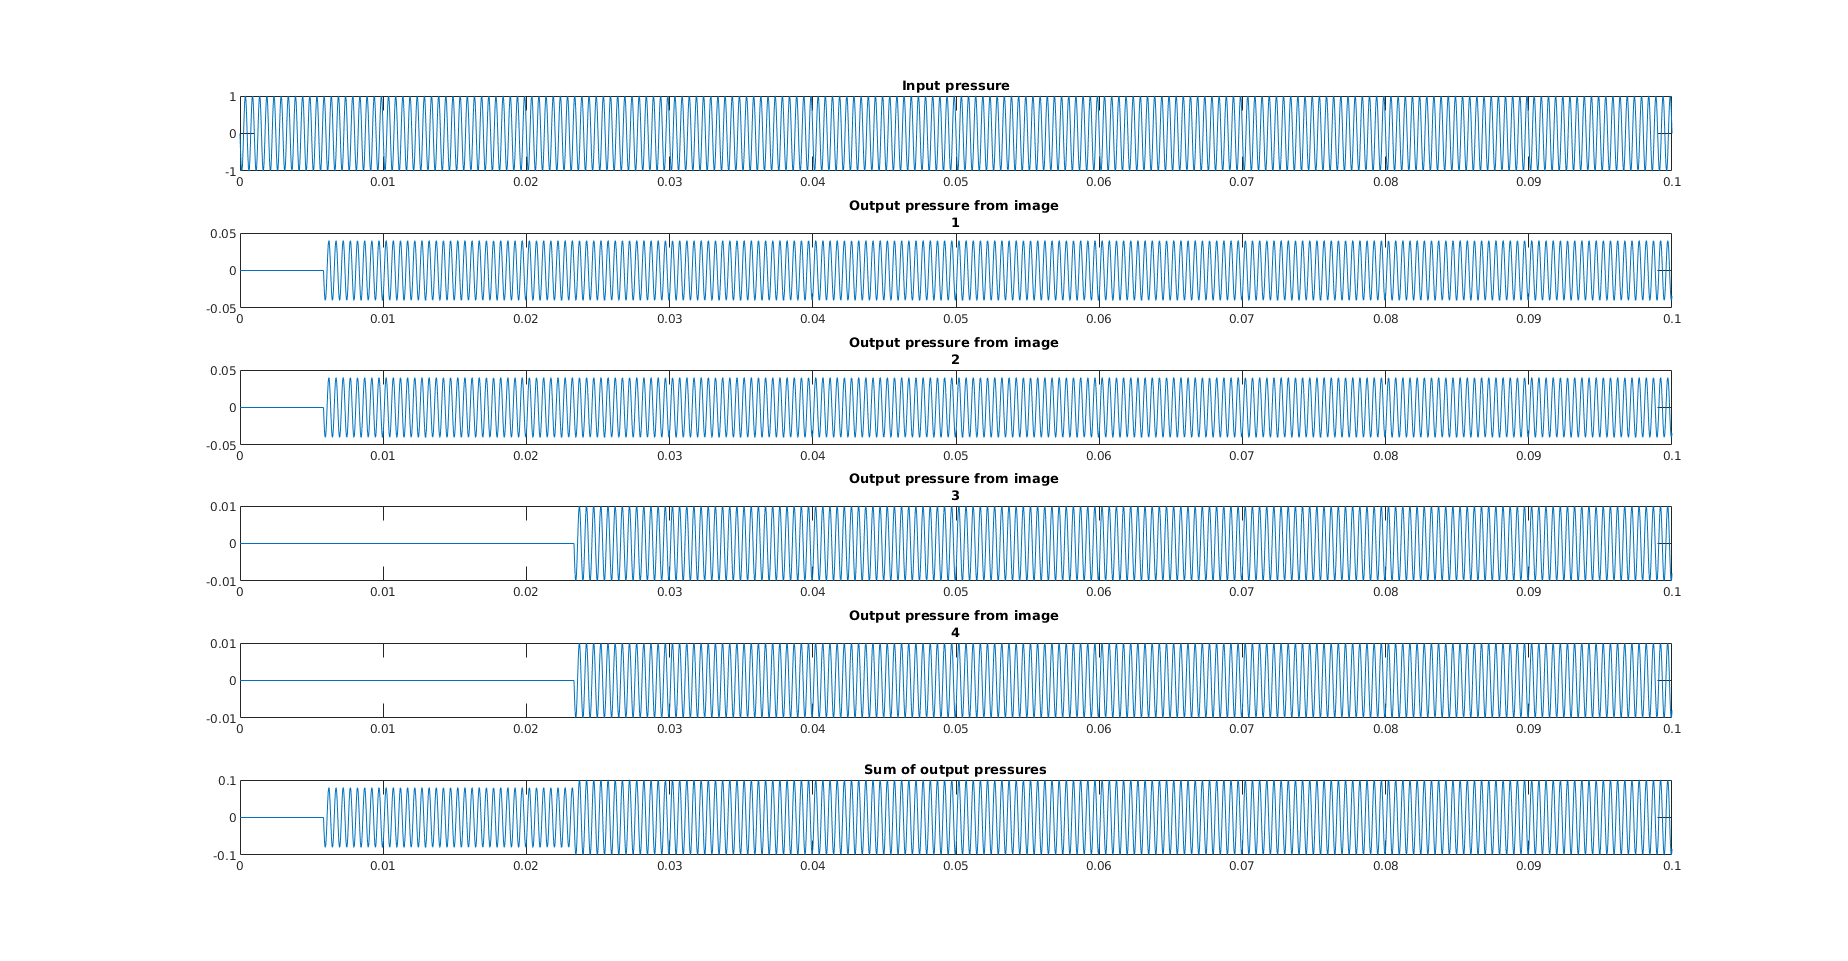
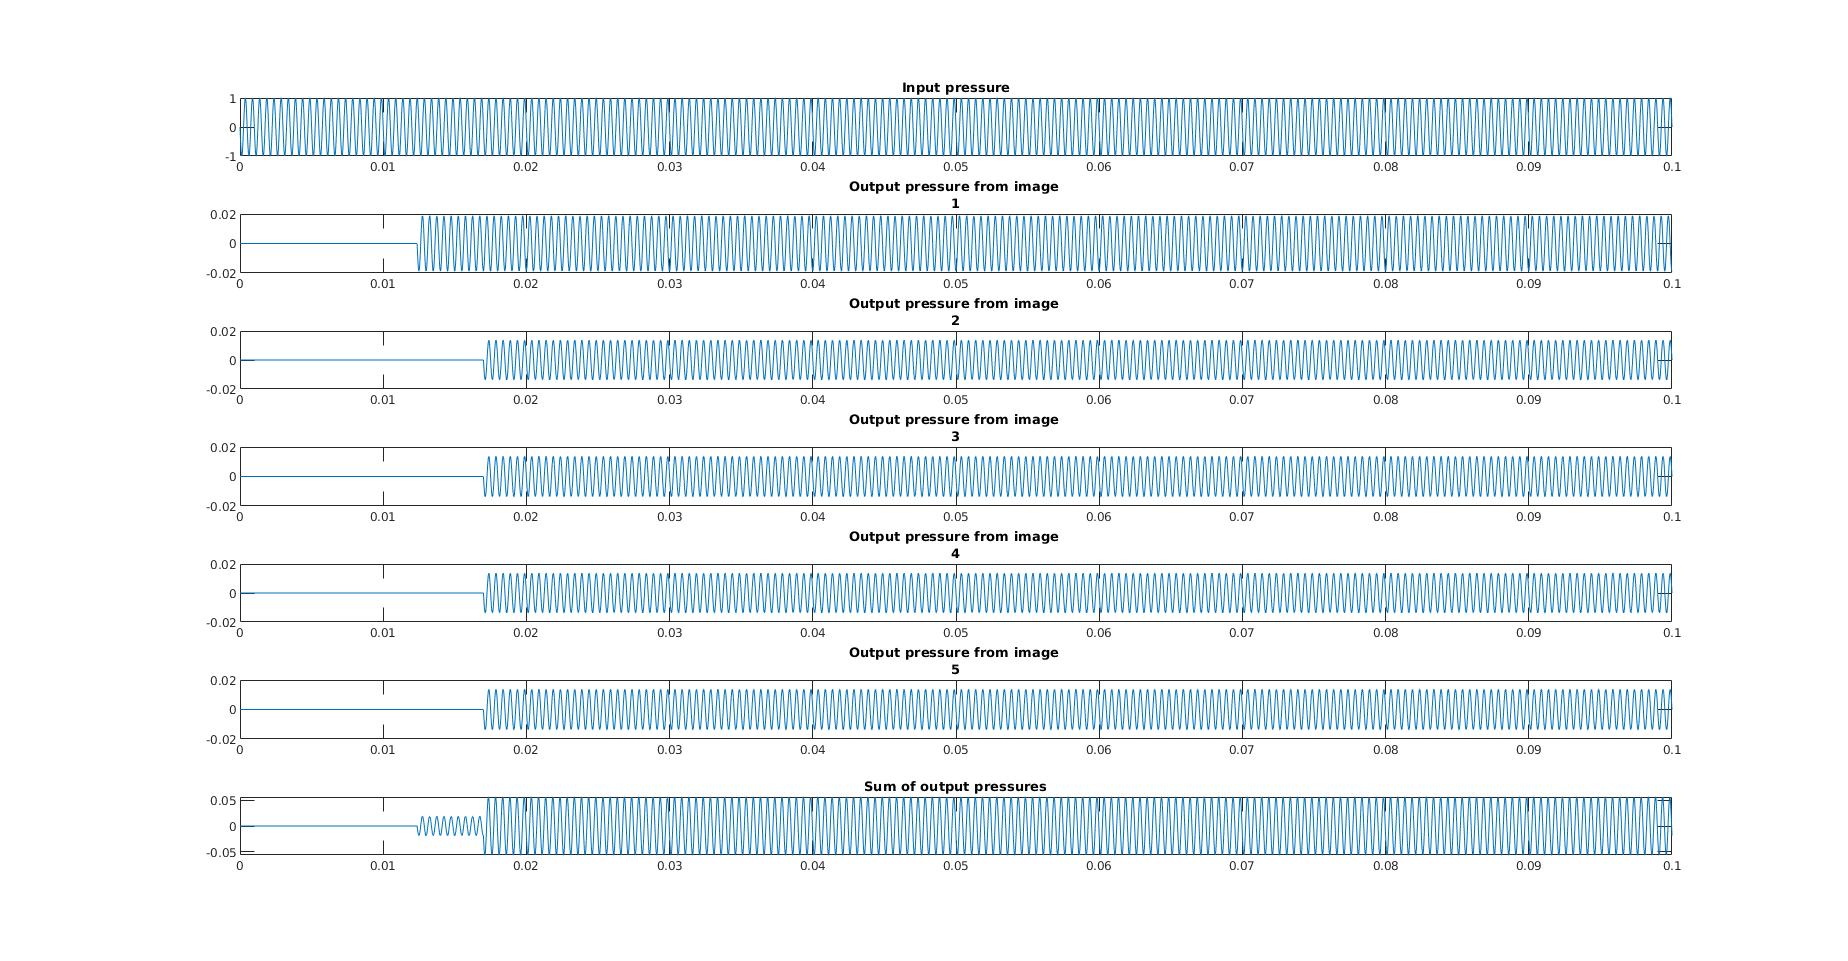
Fix image source method and implement in function image_source_pressure_wave

diff --git a/Matlab/Image_Source_Method/image_source_pressure_wave.m b/Matlab/Image_Source_Method/image_source_pressure_wave.m
@@ -1,0 +1,63 @@
+%% AUTHOR    : Leonard Berresheim 
+%% $DATE     : 31-Oct-2021 09:55:18 $ 
+% IMAGE_SOURCE_PRESSURE_WAVE.M 
+%   [TOT_OUTPUT_PRESSURE] = IMAGE_SOURCE_PRESSURE_WAVE(S,R,Lx,Ly,Lz,T,C,F) 
+%   Eingabe 
+%       S      (? x ?)  
+%       R      (? x ?)  
+%       Lx     (? x ?)  
+%       Ly     (? x ?)  
+%       Lz     (? x ?)  
+%       t      (? x ?)  
+%       c      (? x ?)  
+%       f      (? x ?)  
+%   Ausgabe 
+%       tot_output_pressure      (? x ?)  
+% 
+function [tot_output_pressure] = image_source_pressure_wave(S,R,Lx,Ly,Lz,t,c,f) 
+    % Deklaration of points forming the walls
+    A = [0 0 0; 0 0 0; Lx 0 0; 0 Ly 0;];%[0 0 0; 0 0 0; 0 0 0; Lx 0 0];%; 0 Ly 0; 0 0 Lz];
+    B = [0 1 0; 0 0 1; Lx 1 0; 1 Ly 0;];%[0 1 0; 0 1 0; 0 0 1; Lx 1 0];%; 1 Ly 0; 1 0 Lz];
+    C = [0 0 1; 1 0 0; Lx 0 1; 0 Ly 1];%[1 0 0; 0 0 1; 1 0 0; Lx 0 1];%; 0 Ly 1; 0 1 Lz];
+    % Conversion of points into the plane quation coefficients of the walls
+    n_walls = size(A,1);
+    wall = zeros(n_walls,4);
+    for i=1:n_walls
+       wall(i,:) = plane_equation(A(i,:),B(i,:),C(i,:)); 
+    end
+
+    % Computation of the image points of P in relation to the walls/planes
+    M = point_mirror(wall,S);
+    
+    % Display planes for geogebra---------------------
+    for i=1:n_walls
+       disp(['Plane((' num2str(A(i,1)) ',' num2str(A(i,2)) ',' num2str(A(i,3)) '),(' num2str(B(i,1)) ',' num2str(B(i,2)) ',' num2str(B(i,3)) '),(' num2str(C(i,1)) ',' num2str(C(i,2)) ',' num2str(C(i,3)) '))']);
+    end
+    disp(['(' num2str(S(1)) ',' num2str(S(2)) ',' num2str(S(3)) ')']);
+    for i=1:n_walls
+       disp(['(' num2str(M(i,1)) ',' num2str(M(i,2)) ',' num2str(M(i,3)) ')']);
+    end
+    %-------------------------------------------------
+    % Computation of the pressure wave at R for Source and all images
+    S_and_M = [S;M];
+    [input_pressure, output_pressure] = pressure_wave(S_and_M, R, f, t, c);
+    
+    % Plot output pressures
+    n_pressures = size(S_and_M,1);
+    subplot(n_pressures+2,1,1);
+    plot(t,input_pressure)
+    title("Input pressure");
+    for i=1:n_pressures
+       subplot(n_pressures+2,1,i+1);
+       plot(t, output_pressure(i,:));
+       title(["Output pressure from image " i]);
+    end
+
+    tot_output_pressure = sum(output_pressure,1);
+    subplot(n_pressures+2,1,n_pressures+2);
+    plot(t, tot_output_pressure);
+    title("Sum of output pressures");
+
+
+
+    end 

diff --git a/Matlab/Image_Source_Method/main.m b/Matlab/Image_Source_Method/main.m
@@ -4,54 +4,11 @@ clearvars;
 Lx = 5;
 Ly = 5;
 Lz = 5;
-A = [0 0 0; 0 0 0; Lx 0 0; 0 Ly 0;];%[0 0 0; 0 0 0; 0 0 0; Lx 0 0];%; 0 Ly 0; 0 0 Lz];
-B = [0 1 0; 0 0 1; Lx 1 0; 1 Ly 0;];%[0 1 0; 0 1 0; 0 0 1; Lx 1 0];%; 1 Ly 0; 1 0 Lz];
-C = [0 0 1; 1 0 0; Lx 0 1; 0 Ly 1];%[1 0 0; 0 0 1; 1 0 0; Lx 0 1];%; 0 Ly 1; 0 1 Lz];
-wall = zeros(size(A,1),4);
-for i=1:size(A,1);
-   wall(i,:) = plane_equation(A(i,:),B(i,:),C(i,:)); 
-end
-
-P = [1,1,1];
-M = point_mirror(wall,P);
-
-for i=1:size(A,1)
-   disp(['Plane((' num2str(A(i,1)) ',' num2str(A(i,2)) ',' num2str(A(i,3)) '),(' num2str(B(i,1)) ',' num2str(B(i,2)) ',' num2str(B(i,3)) '),(' num2str(C(i,1)) ',' num2str(C(i,2)) ',' num2str(C(i,3)) '))']);
-end
-disp(['(' num2str(P(1)) ',' num2str(P(2)) ',' num2str(P(3)) ')']);
-for i=1:size(A,1)
-   disp(['(' num2str(M(i,1)) ',' num2str(M(i,2)) ',' num2str(M(i,3)) ')']);
-end
-
 t = 0:0.00001:0.1;
 c = 343;
 f = 2000;
-[input_pressure, output_pressure] = pressure_wave(P, M, f, t, c);
 
-subplot(size(A,1)+2,1,1);
-plot(t,input_pressure)
-title("Input pressure");
-for i=1:size(A,1)
-   subplot(size(A,1)+2,1,i+1);
-   plot(t, output_pressure(i,:));
-   title(["Output pressure from image " i]);
-end
+R = [4,4,1];
+S = [1,1,1];
 
-pressure_sum = sum(output_pressure,1);
-subplot(size(A,1)+2,1,size(A,1)+2);
-plot(t, pressure_sum);
-title("Sum of output pressures");
-
-% t = 0:0.001:1;
-% c = 343;
-% f = 20;
-% X_source = [0,0]; % Source coordinates
-% X_receiver = [0,50]; % Receiver coordinates
-% 
-% [input_pressure, p] = pressure_wave(X_source, X_receiver, f, t, c);
-% 
-% subplot(2,1,1)
-% plot(t,input_pressure)
-% 
-% subplot(2,1,2)
-% plot(t,p)
+tot_output_pressure = image_source_pressure_wave(S,R,Lx,Ly,Lz,t,c,f);

diff --git a/Matlab/Image_Source_Method/pressure_wave.m b/Matlab/Image_Source_Method/pressure_wave.m
@@ -19,8 +19,8 @@ function [in_p, out_p] = pressure_wave(x0,x1,fe, t, c)
     omega = 2*pi*fe;
 
     in_p = imag(exp(-1i*omega*t));
-    for j=1:size(x1,1)
-        r = norm(x0 - x1(j,:));
+    for j=1:size(x0,1)
+        r = norm(x0(j,:) - x1);
         for i=1:length(t)
             if(t(i) < r/c)
                 out_p(j,i) = 0;
